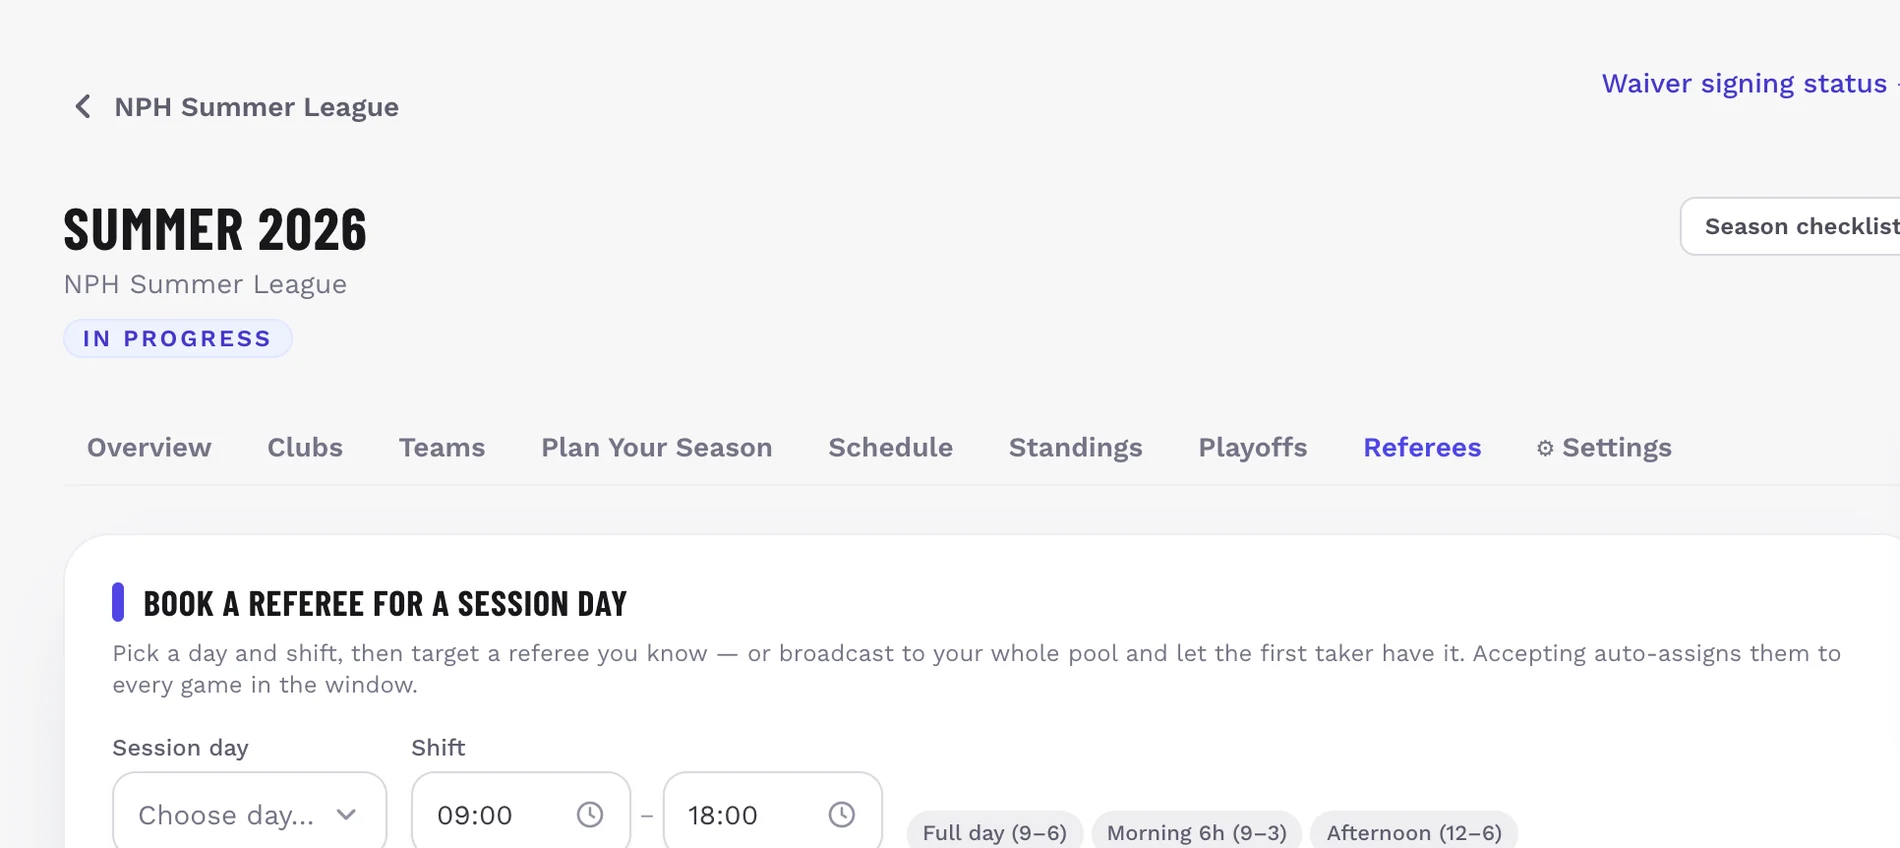
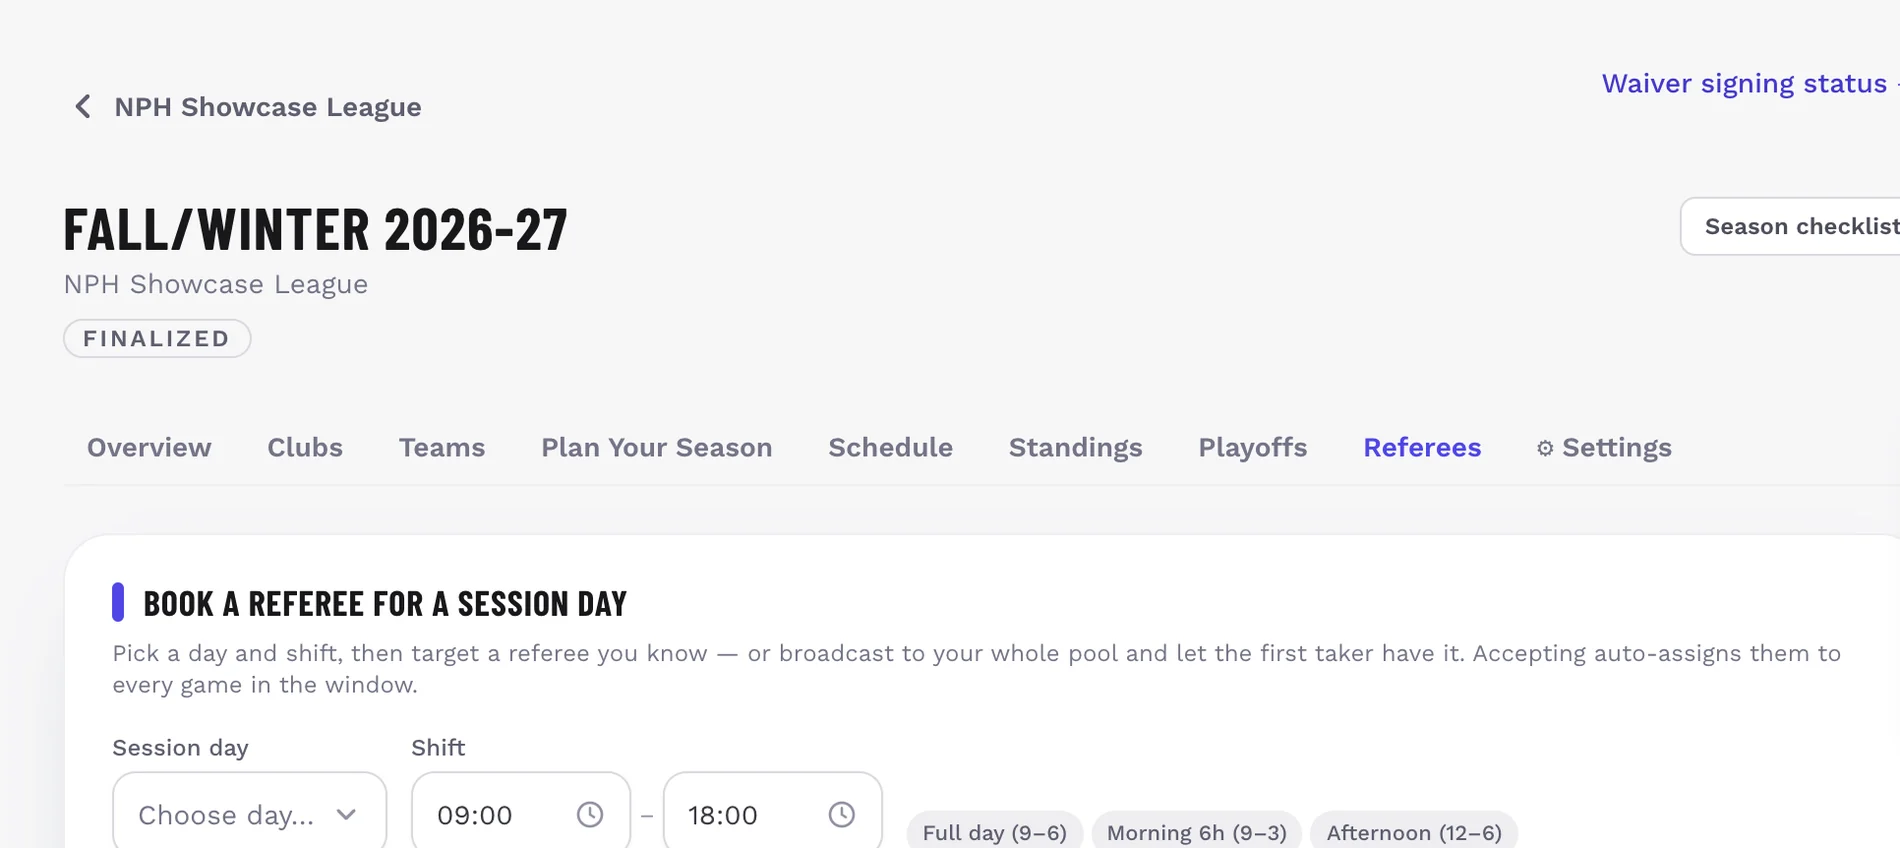
one league, one season, one scale: the whole deck is shot in the journey world
The deck was half one world and half another. Slides 4, 5 and 9 came from the
Showcase League's Fall/Winter 2026-27 at 146 teams; the overview, referees,
waivers and hub still came from the everyday demo league, so the overview read
"8 clubs entered, 22 teams approved" and the board two slides later placed 146.
Different league, different season, different scale, four slides apart.

LEAGUE and SEASON are now resolved by NAME from the journey world, the same way
the planner and twin worlds already were, because every reseed mints new ids and
a pinned id goes stale in silence — which is how this happened.

NOTHING ABOUT HOW THE SHOTS ARE TAKEN CHANGED. Same viewport, same 2x scale,
same band(), same RIGHT_KEEP 0.955, HEIGHT_KEEP 0.77, MAX_WIDTH 1900, same
quality, same scroll anchors. Verified file by file: all 32 published images
match their pre-session dimensions exactly, hub at 1900x861 and the wide board
at 1900x670 included.

Four of those screens were EMPTY in this world and had to be seeded first:

  · the league held no waiver documents at all, so the signing status page said
    "This league has no required waivers". Both documents are seeded now, with
    the same titles and bodies the everyday world uses — an approved slide has
    to keep saying exactly what it said. 1,015 signed of 1,306 requested, so
    the grid shows green against outstanding.
  · signers read as guardians sharing the child's surname, derived from the
[…]

Changed region(s): [[0.0311, 0.2453, 0.3105, 0.4292], [0.0932, 0.1226, 0.2174, 0.1533]]

diff --git a/scripts/seed-journey.ts b/scripts/seed-journey.ts
@@ -23,6 +23,7 @@ import bcrypt from "bcryptjs"
 import { prisma } from "@youthbasketballhub/db"
 import { NPH_CENSUS, type NphCensusEntry } from "./data/nph-census"
 import { EMAIL_DOMAIN, JOURNEY_SLUG_PREFIX, MARKER, PASSWORD } from "./demo-shared"
+import { WAIVER_TEMPLATES } from "../apps/web/src/lib/waivers/templates"
 
 const p = prisma as any
 const days = (n: number) => n * 24 * 3600_000
@@ -890,6 +891,240 @@ async function placeGradesInGyms(seasonId: string) {
   return { placements, weekends }
 }
 
+/**
+ * WAIVERS AND THE REFEREE DESK, so the console's own screens are not empty in
+ * the world the deck is shot from.
+ *
+ * Both are copied from the everyday demo world rather than reinvented: the
+ * same two documents (the club-facing registration T&C and the parent-facing
+ * Rowan's Law template out of lib/waivers/templates), the same signed/emailed
+ * mix, and the same four referees. Nothing here writes new user-facing copy —
+ * an approved slide must keep saying exactly what it said.
+ */
+const JOURNEY_REFS: Array<[string, string, string]> = [
+  ["Mike", "Ferreira", "ref-mike"],
+  ["Sarah", "Whitlock", "ref-sarah"],
+  ["James", "Okonkwo", "ref-james"],
+  ["Priya", "Raman", "ref-priya"],
+]
+
+const TC_BODY = [
+  "A 50% non-refundable deposit is required to secure your team's spot in the league.",
+  "Full payment is due no later than two (2) weeks prior to the season tip-off.",
+  "No refunds will be issued for deposits or league registration fees.",
+  "Forfeiting a scheduled game will result in a $500 service fee.",
+  "Schedule changes are not permitted once published, except for emergencies.",
+  "Once registered, teams are fully committed to the league season and are expected to be organized and ready to compete professionally.",
+].join("\n\n")
+
+const SIGNATURE_PNG =
[1 lines of base64/hex data omitted]
+
+/** A guardian for a player, derived from the player's id so a reseed produces
+ *  the same person. The signing grid prints the NAME THAT SIGNED, so it has to
+ *  read like a parent — sharing the child's surname, never the child's own
+ *  name with a label bolted on. */
+const guardianHash = (id: string): number => {
+  let h = 7
+  for (const c of id) h = (h * 31 + c.charCodeAt(0)) % 100003
+  return h
+}
+const guardianName = (playerId: string, lastName: string): string =>
+  `${ADULT_NAMES[guardianHash(playerId) % ADULT_NAMES.length]} ${lastName}`
+const guardianEmail = (playerId: string, lastName: string): string =>
+  `parent-${lastName.toLowerCase().replace(/[^a-z]/g, "")}-${(guardianHash(playerId) % 900) + 100}@${EMAIL_DOMAIN}`
+
+async function seedWaiversAndReferees(seasonId: string, leagueId: string, leagueName: string) {
+  const existing = await p.waiverDocument.count({ where: { leagueId } })
+  if (existing === 0) {
+    await p.waiverDocument.create({
+      data: {
+        leagueId,
+        title: "NPH League Registration Terms & Conditions",
+        body: TC_BODY,
+        required: true,
+        audience: "CLUB_OFFICIAL",
+      },
+    })
+  }
+  const rowans = WAIVER_TEMPLATES.find((t) => t.key === "concussion-code-on")!
+  const rowansBody = rowans.body(leagueName)
+  let doc = await p.waiverDocument.findFirst({
+    where: { leagueId, title: rowans.title },
+    select: { id: true },
+  })
+  if (!doc) {
+    doc = await p.waiverDocument.create({
+      data: {
+        leagueId,
+        title: rowans.title,
+        body: rowansBody,
+        type: rowans.type,
+        province: rowans.province,
+        annualRenewal: rowans.annualRenewal,
+        required: true,
+      },
+      select: { id: true },
+    })
+  }
+
+  // A believable mix per team: most signed, a few still out. The grid has to
+  // show green AND waiting, which is the whole point of the slide.
+  const subs = await p.teamSubmission.findMany({
+    where: { seasonId, status: "APPROVED" },
+    select: { teamId: true },
+  })
+  const now = new Date()
+  let requests = 0
+  let signed = 0
+  for (const [i, sub] of subs.entries()) {
+    const roster = await p.teamPlayer.findMany({
+      where: { teamId: sub.teamId, status: "ACTIVE" },
+      select: { playerId: true, player: { select: { firstName: true, lastName: true, parentId: true } } },
+      orderBy: { playerId: "asc" },
+    })
+    if (roster.length === 0) continue
+    // 5 of 9 up to all 9, so no two teams read the same.
+    const through = Math.min(roster.length, 5 + (i % 5))
+    for (const [j, r] of roster.entries()) {
+      const sentAt = new Date(now.getTime() - days(4))
+      const signs = j < through
+      const already = await p.waiverSignRequest.findFirst({
+        where: { waiverId: doc.id, playerId: r.playerId, seasonId },
+        select: { id: true },
+      })
+      if (already) continue
+      await p.waiverSignRequest.create({
+        data: {
+          waiverId: doc.id,
+          playerId: r.playerId,
+          seasonId,
+          emailedTo: guardianEmail(r.playerId, r.player.lastName),
+          tokenHash: `journey-${doc.id.slice(0, 8)}-${r.playerId}`,
+          expiresAt: new Date(now.getTime() + days(30)),
+          consumedAt: signs ? new Date(sentAt.getTime() + days(1)) : null,
+          createdAt: sentAt,
+        },
+      })
+      requests++
+      if (signs) {
+        await p.waiverSignature.create({
+          data: {
+            waiverId: doc.id,
+            playerId: r.playerId,
+            seasonId,
+            waiverVersion: 1,
+            bodySnapshot: rowansBody,
+            signerName: guardianName(r.playerId, r.player.lastName),
+            relationship: "Parent/Guardian",
+            signatureData: SIGNATURE_PNG,
+            signedAt: new Date(sentAt.getTime() + days(1)),
+            validUntil: new Date(sentAt.getTime() + days(366)),
+          },
+        })
+        signed++
+      }
+    }
+  }
+
+  // The referee desk: a pool, so the Referees tab is not an empty shelf.
+  const passwordHash = await bcrypt.hash(PASSWORD, 10)
+  const pinHash = await bcrypt.hash("1234", 10)
+  const refIds: string[] = []
+  let pooled = 0
+  for (const [first, last, key] of JOURNEY_REFS) {
+    const email = `${key}@${EMAIL_DOMAIN}`
+    let ref = await p.user.findFirst({ where: { email }, select: { id: true } })
+    if (!ref) {
+      ref = await p.user.create({
+        data: {
+          email,
+          passwordHash,
+          firstName: first,
+          lastName: last,
+          phoneNumber: "416-555-0142",
+          onboardedAt: new Date(),
+          city: "Toronto",
+          state: "ON",
+        },
+        select: { id: true },
+      })
+    }
+    const hasRole = await p.userRole.findFirst({
+      where: { userId: ref.id, role: "Referee", gameId: null },
+      select: { id: true },
+    })
+    if (!hasRole) await p.userRole.create({ data: { userId: ref.id, role: "Referee" } })
+    const hasProfile = await p.refereeProfile.findUnique({ where: { userId: ref.id }, select: { id: true } })
+    if (!hasProfile) {
+      await p.refereeProfile.create({
+        data: {
+          userId: ref.id,
+          certificationLevel: `Level ${2 + (pooled % 2)}`,
+          availableRegions: ["Ontario"],
+          standardFee: 45,
+          gamesRefereed: 20 + pooled * 9,
+          signoffPinHash: pinHash,
+        },
+      })
+    }
+    const inPool = await p.leagueReferee.findFirst({
+      where: { leagueId, userId: ref.id },
+      select: { id: true },
+    })
+    if (!inPool) await p.leagueReferee.create({ data: { leagueId, userId: ref.id } })
+    refIds.push(ref.id)
+    pooled++
+  }
+
+  /**
+   * ONE SHIFT ON OFFER, still pending — the "league broadcasts a Saturday,
+   * first to accept takes it" beat. Without it the Referees tab shows an
+   * empty Offers panel, which is the one thing that screen should never say
+   * on a pitch. Two of the four have declared they can work it; the other two
+   * are silent, which is what makes the broadcast worth sending.
+   */
+  const league = await p.league.findUnique({ where: { id: leagueId }, select: { ownerId: true } })
+  const satDay = await p.seasonSessionDay.findFirst({
+    where: { session: { seasonId, phase: "REGULAR" } },
+    orderBy: { date: "desc" },
+    select: { id: true, date: true },
+  })
+  let offers = 0
+  if (satDay && league) {
+    const existing = await p.refereeSessionRequest.findFirst({
+      where: { leagueId, sessionDayId: satDay.id },
+      select: { id: true },
+    })
+    if (!existing) {
+      const dayISO = new Date(satDay.date).toISOString().slice(0, 10)
+      for (const refId of refIds.slice(0, 2)) {
+        await p.refereeAvailability.create({
+          data: {
+            userId: refId,
+            date: new Date(`${dayISO}T00:00:00.000Z`),
+            startTime: "09:00",
+            endTime: "18:00",
+          },
+        })
+      }
+      await p.refereeSessionRequest.create({
+        data: {
+          leagueId,
+          sessionDayId: satDay.id,
+          startTime: "09:00",
+          endTime: "15:00",
+          message: "Final regular-season Saturday, two courts running all morning.",
+          offeredRatePerGame: 45,
+          createdById: league.ownerId,
+        },
+      })
+      offers = 1
+    }
+  }
+  return { requests, signed, pooled, offers }
+}
+
 export async function seedJourneyStage3() {
   const season = await journeySeason(SL_LEAGUE)
 
@@ -1089,6 +1324,11 @@ export async function seedJourneyStage3() {
       },
     })
   }
+
+  const desk = await seedWaiversAndReferees(season.id, season.leagueId, SL_LEAGUE)
+  console.log(
+    `✓ waivers: ${desk.signed} signed of ${desk.requests} requested · referee pool ${desk.pooled} · ${desk.offers} shift on offer`
+  )
 
   await writeDemoState("nph-pitch-journey", 3)
   console.log(

diff --git a/apps/web/src/app/deck/_deck/shots-version.ts b/apps/web/src/app/deck/_deck/shots-version.ts
@@ -7,4 +7,4 @@
  *
  * Do not edit by hand.
  */
-export const SHOTS_VERSION = "20260820-2325"
+export const SHOTS_VERSION = "20260821-0017"
